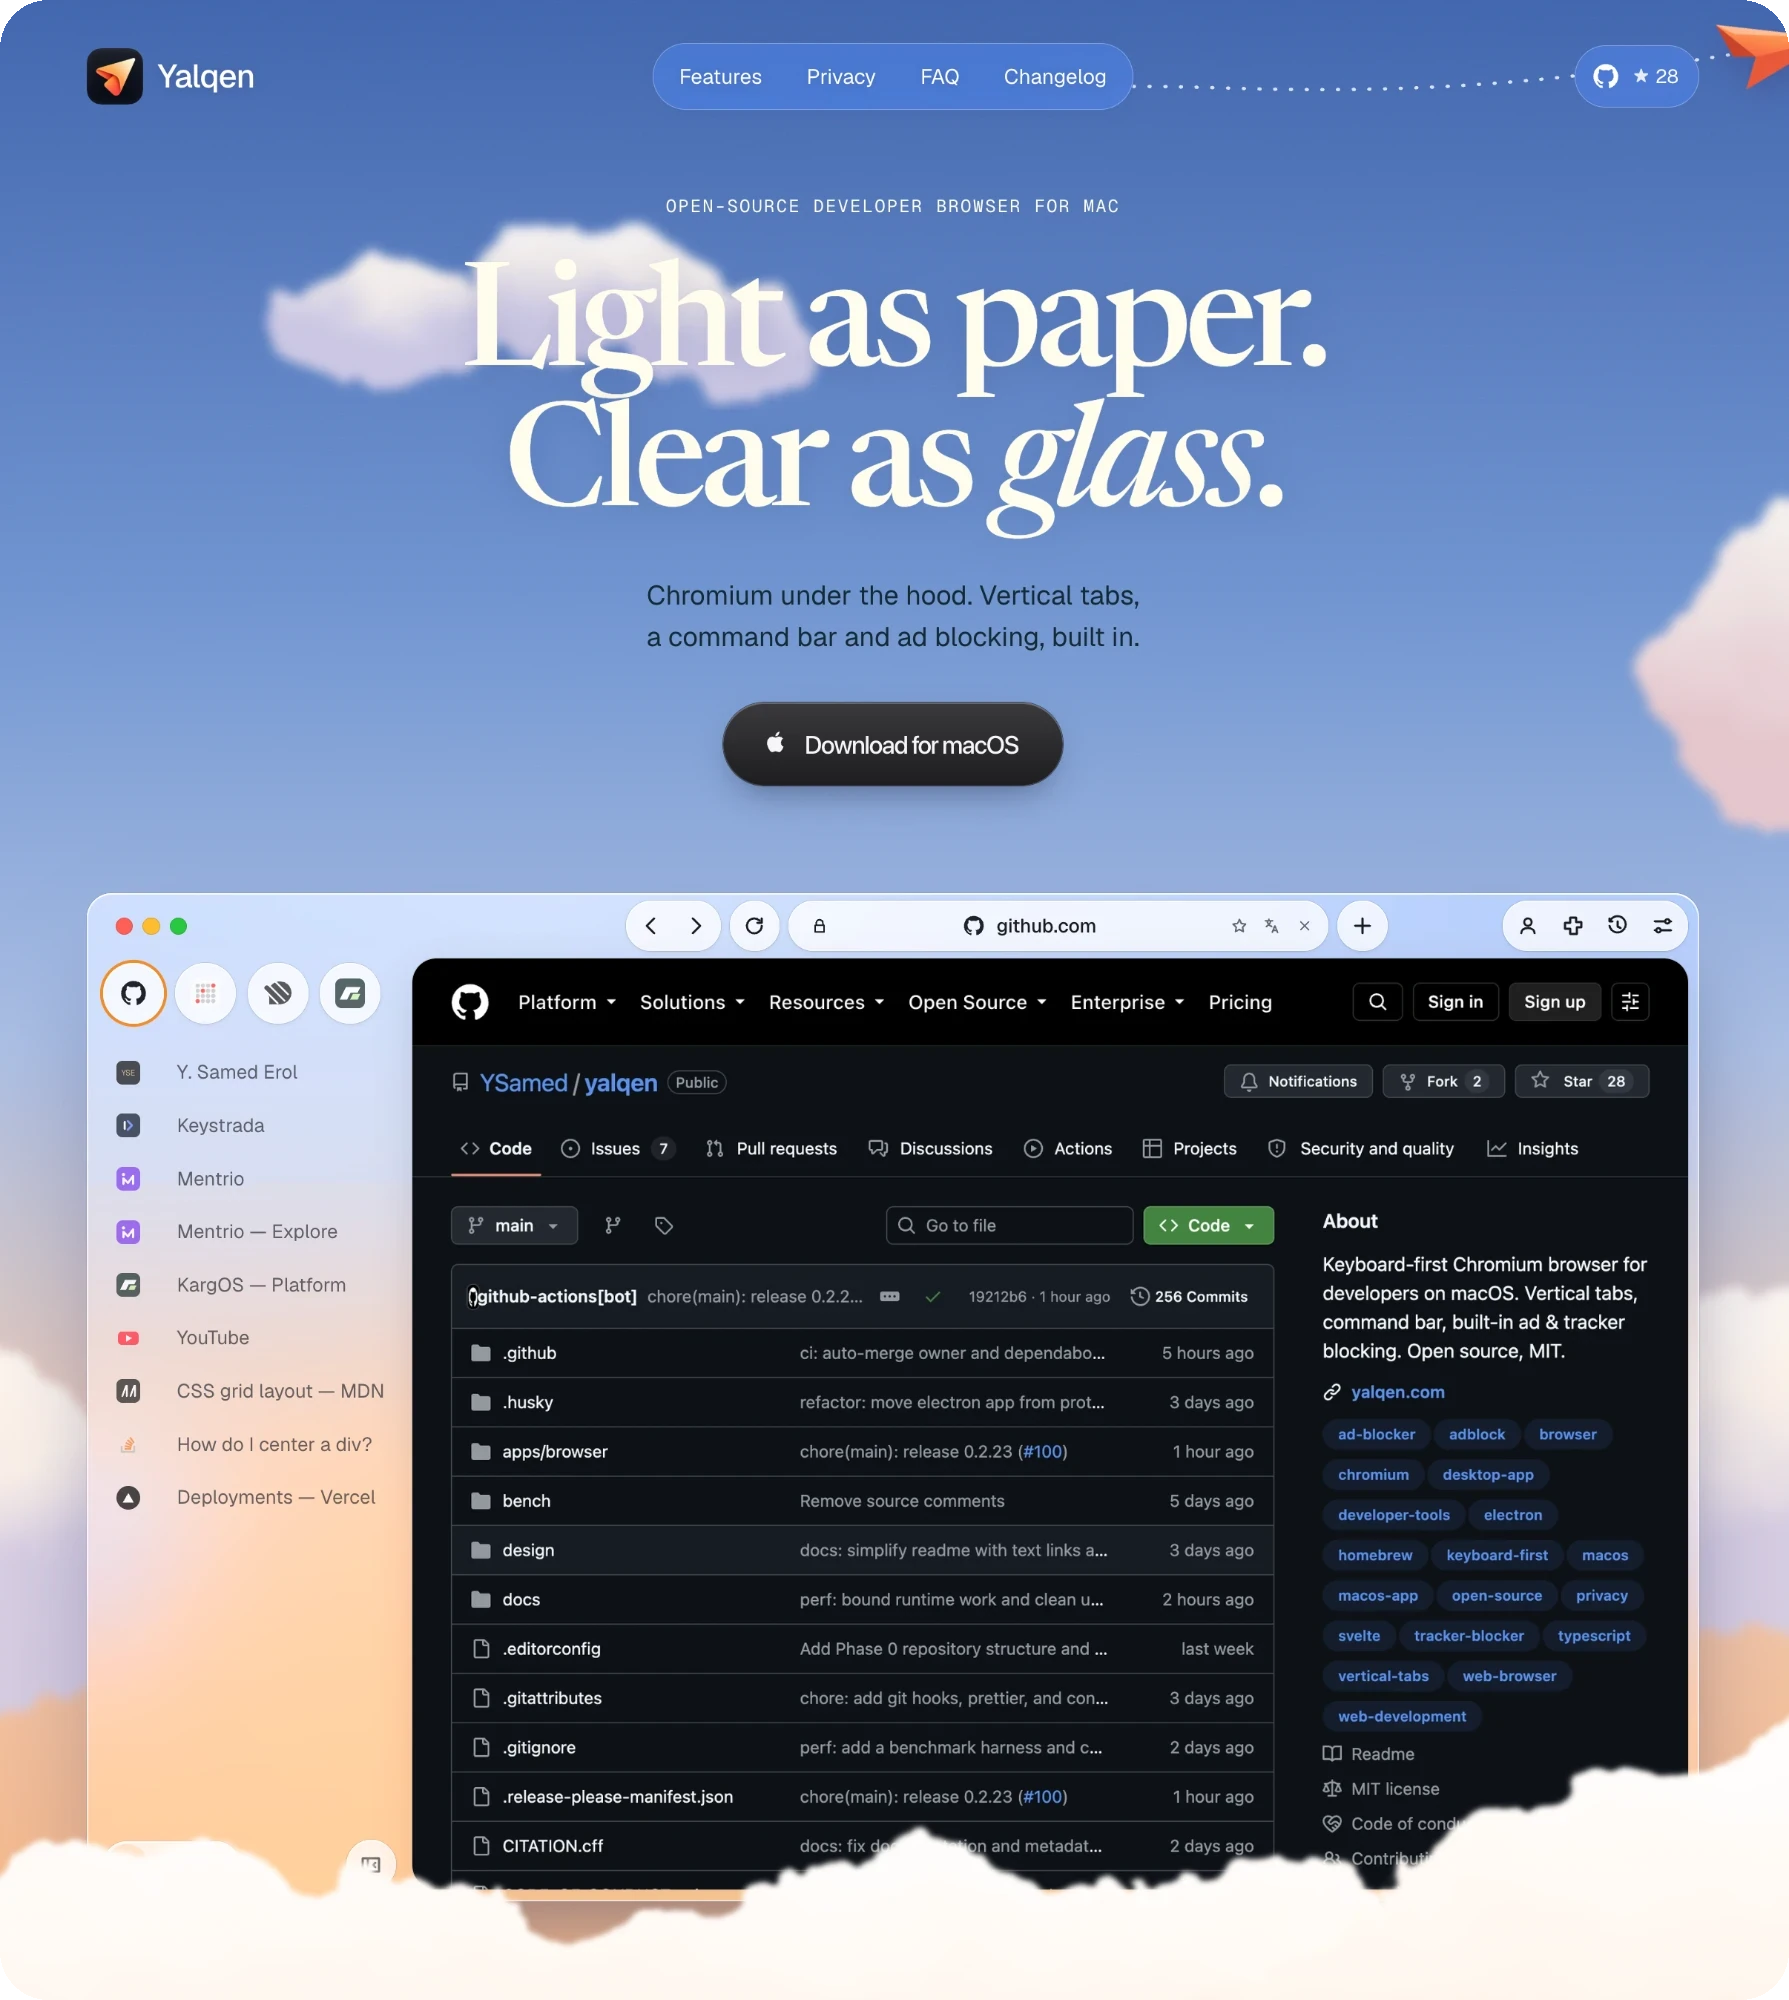
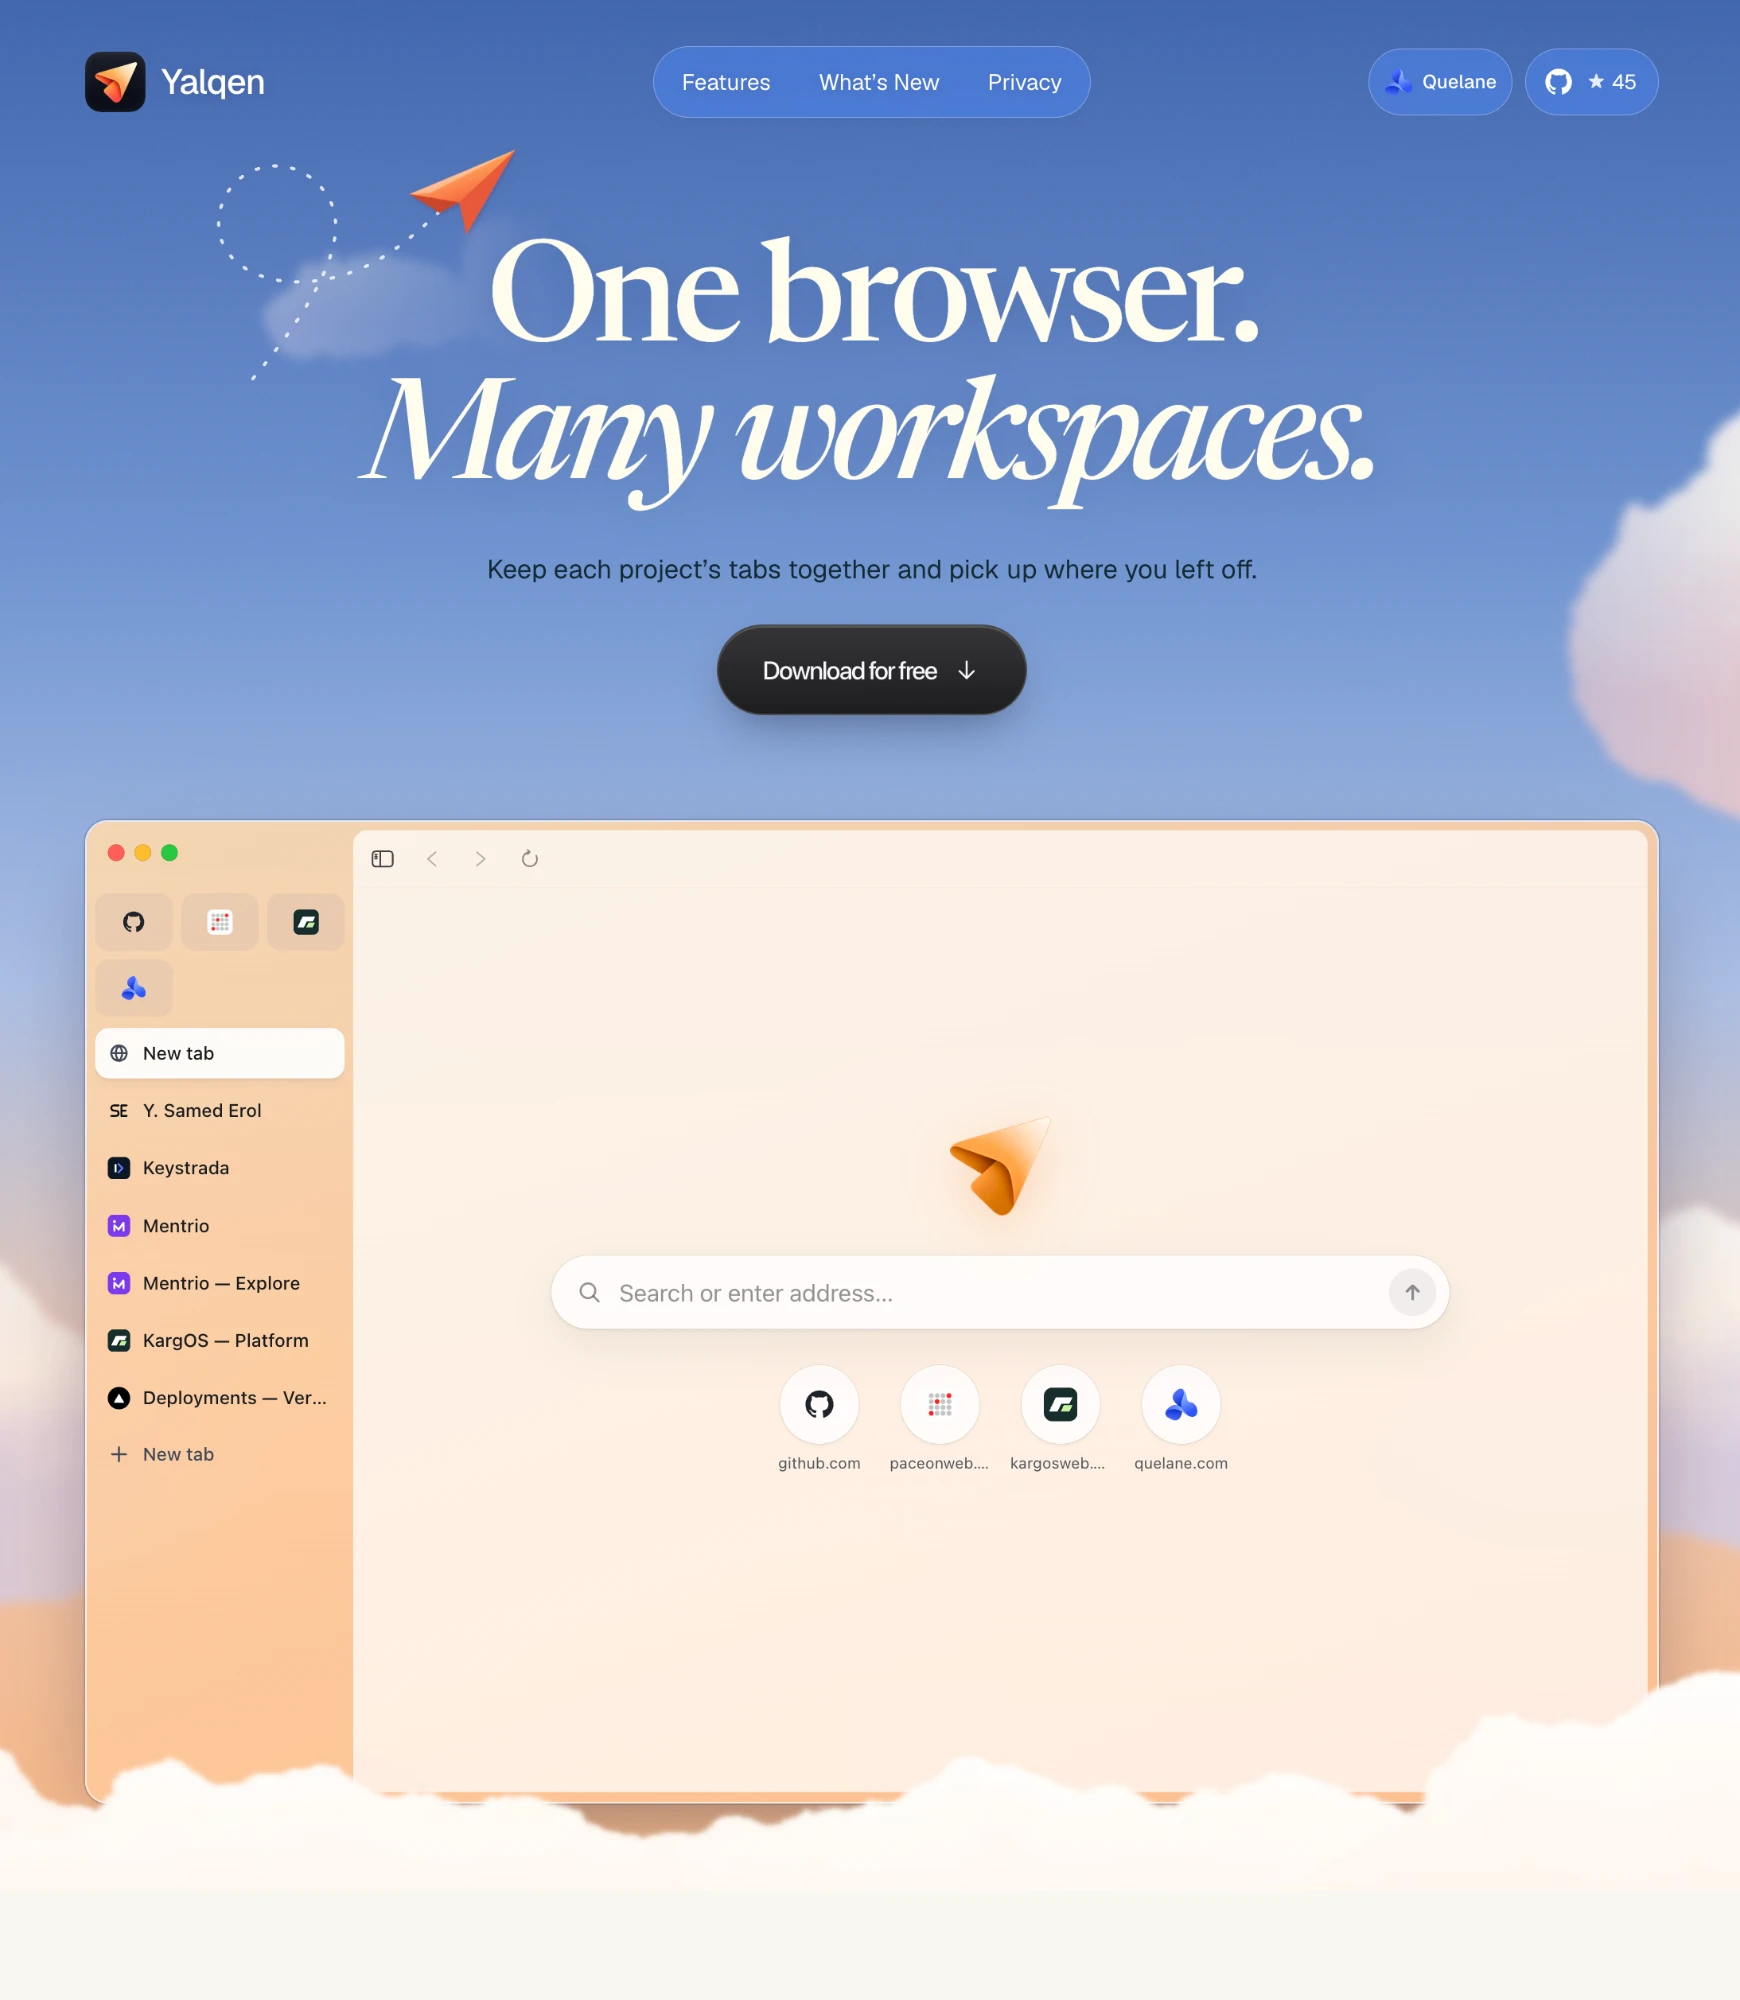
docs: refresh website screenshot in readme
- Replace website screenshot with the new landing page hero
- Update screenshot alt text in English, Turkish and Chinese READMEs

diff --git a/README.md b/README.md
@@ -16,7 +16,7 @@
 </div>
 
 <p align="center">
-  <a href="https://yalqen.com/"><img src="assets/screenshots/website.webp" alt="Yalqen — Light as paper. Clear as glass." width="900"></a>
+  <a href="https://yalqen.com/"><img src="assets/screenshots/website.webp" alt="Yalqen — One browser. Many workspaces." width="900"></a>
 </p>
 
 <p align="center">

diff --git a/README.tr.md b/README.tr.md
@@ -16,7 +16,7 @@
 </div>
 
 <p align="center">
-  <a href="https://yalqen.com/"><img src="assets/screenshots/website.webp" alt="Yalqen — Light as paper. Clear as glass." width="900"></a>
+  <a href="https://yalqen.com/"><img src="assets/screenshots/website.webp" alt="Yalqen — One browser. Many workspaces." width="900"></a>
 </p>
 
 <p align="center">

diff --git a/README.zh-CN.md b/README.zh-CN.md
@@ -16,7 +16,7 @@
 </div>
 
 <p align="center">
-  <a href="https://yalqen.com/"><img src="assets/screenshots/website.webp" alt="Yalqen — Light as paper. Clear as glass." width="900"></a>
+  <a href="https://yalqen.com/"><img src="assets/screenshots/website.webp" alt="Yalqen — One browser. Many workspaces." width="900"></a>
 </p>
 
 <p align="center">
